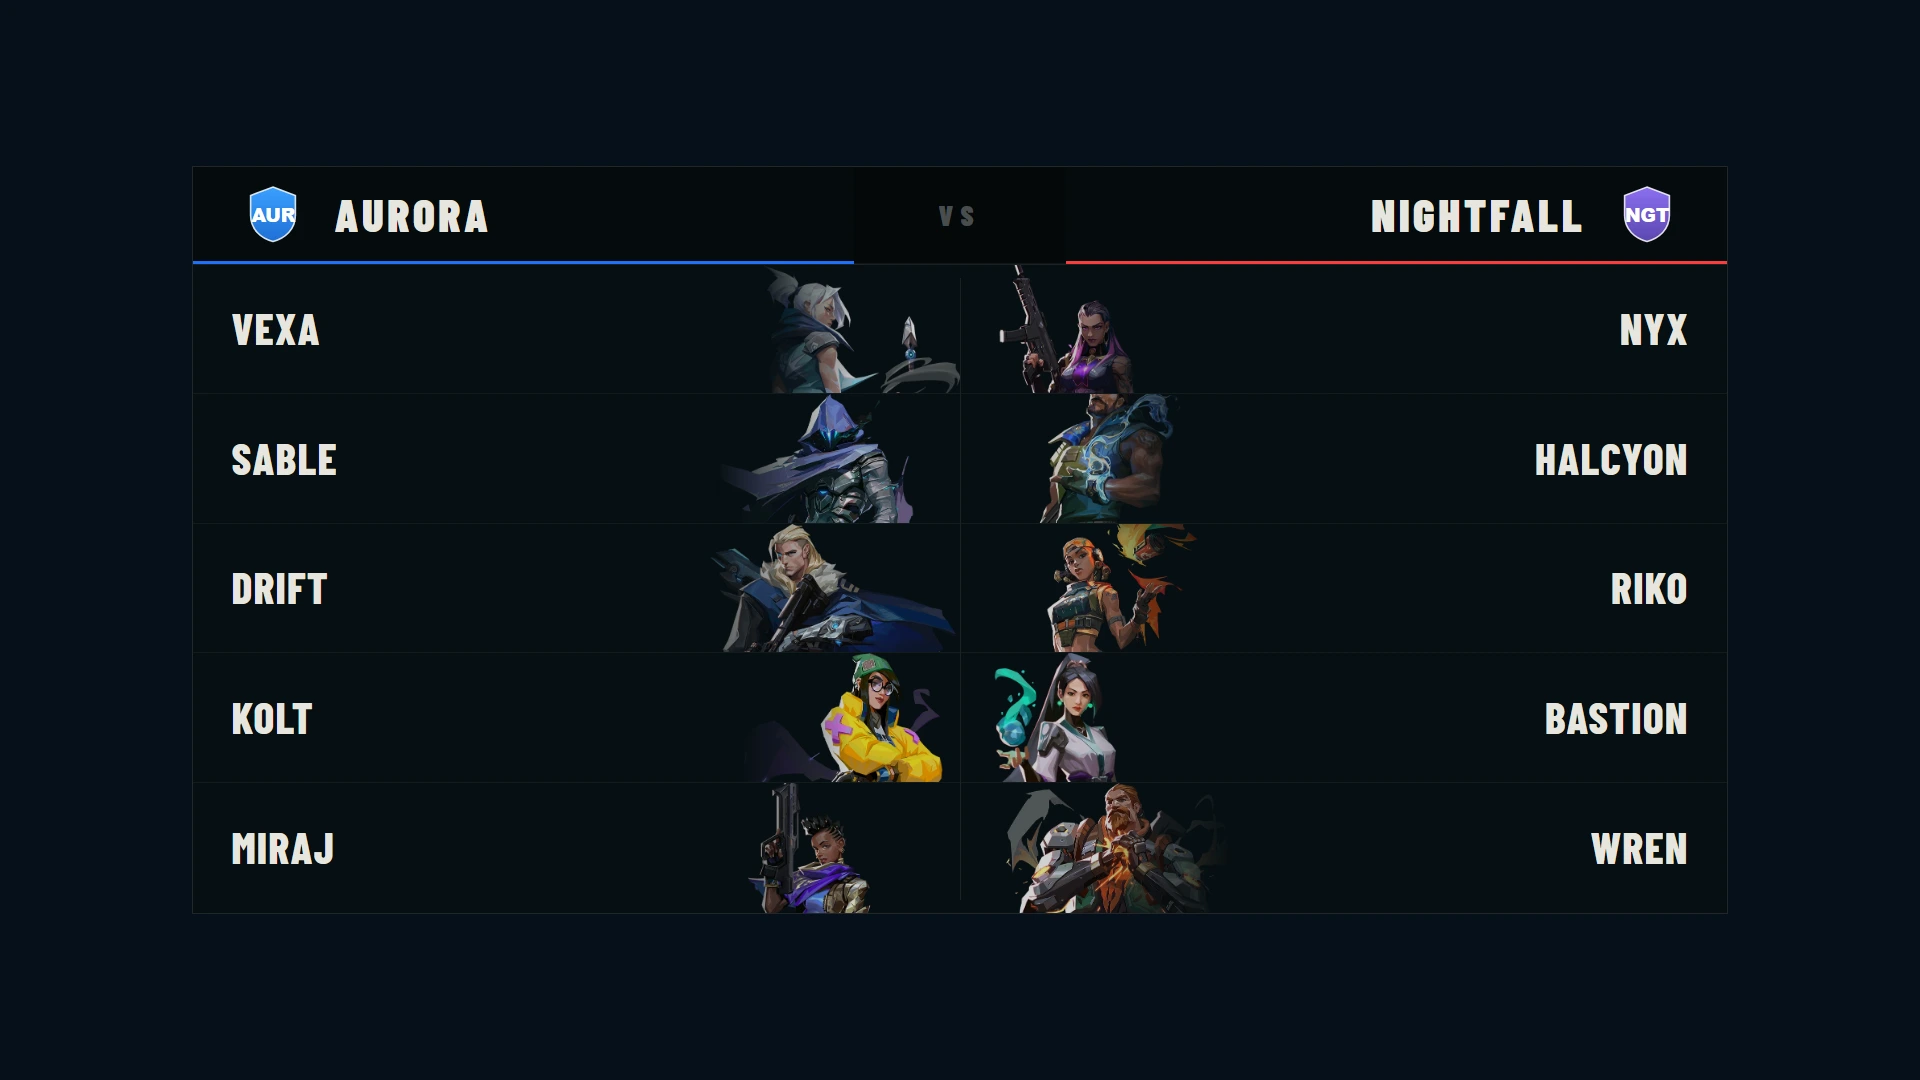
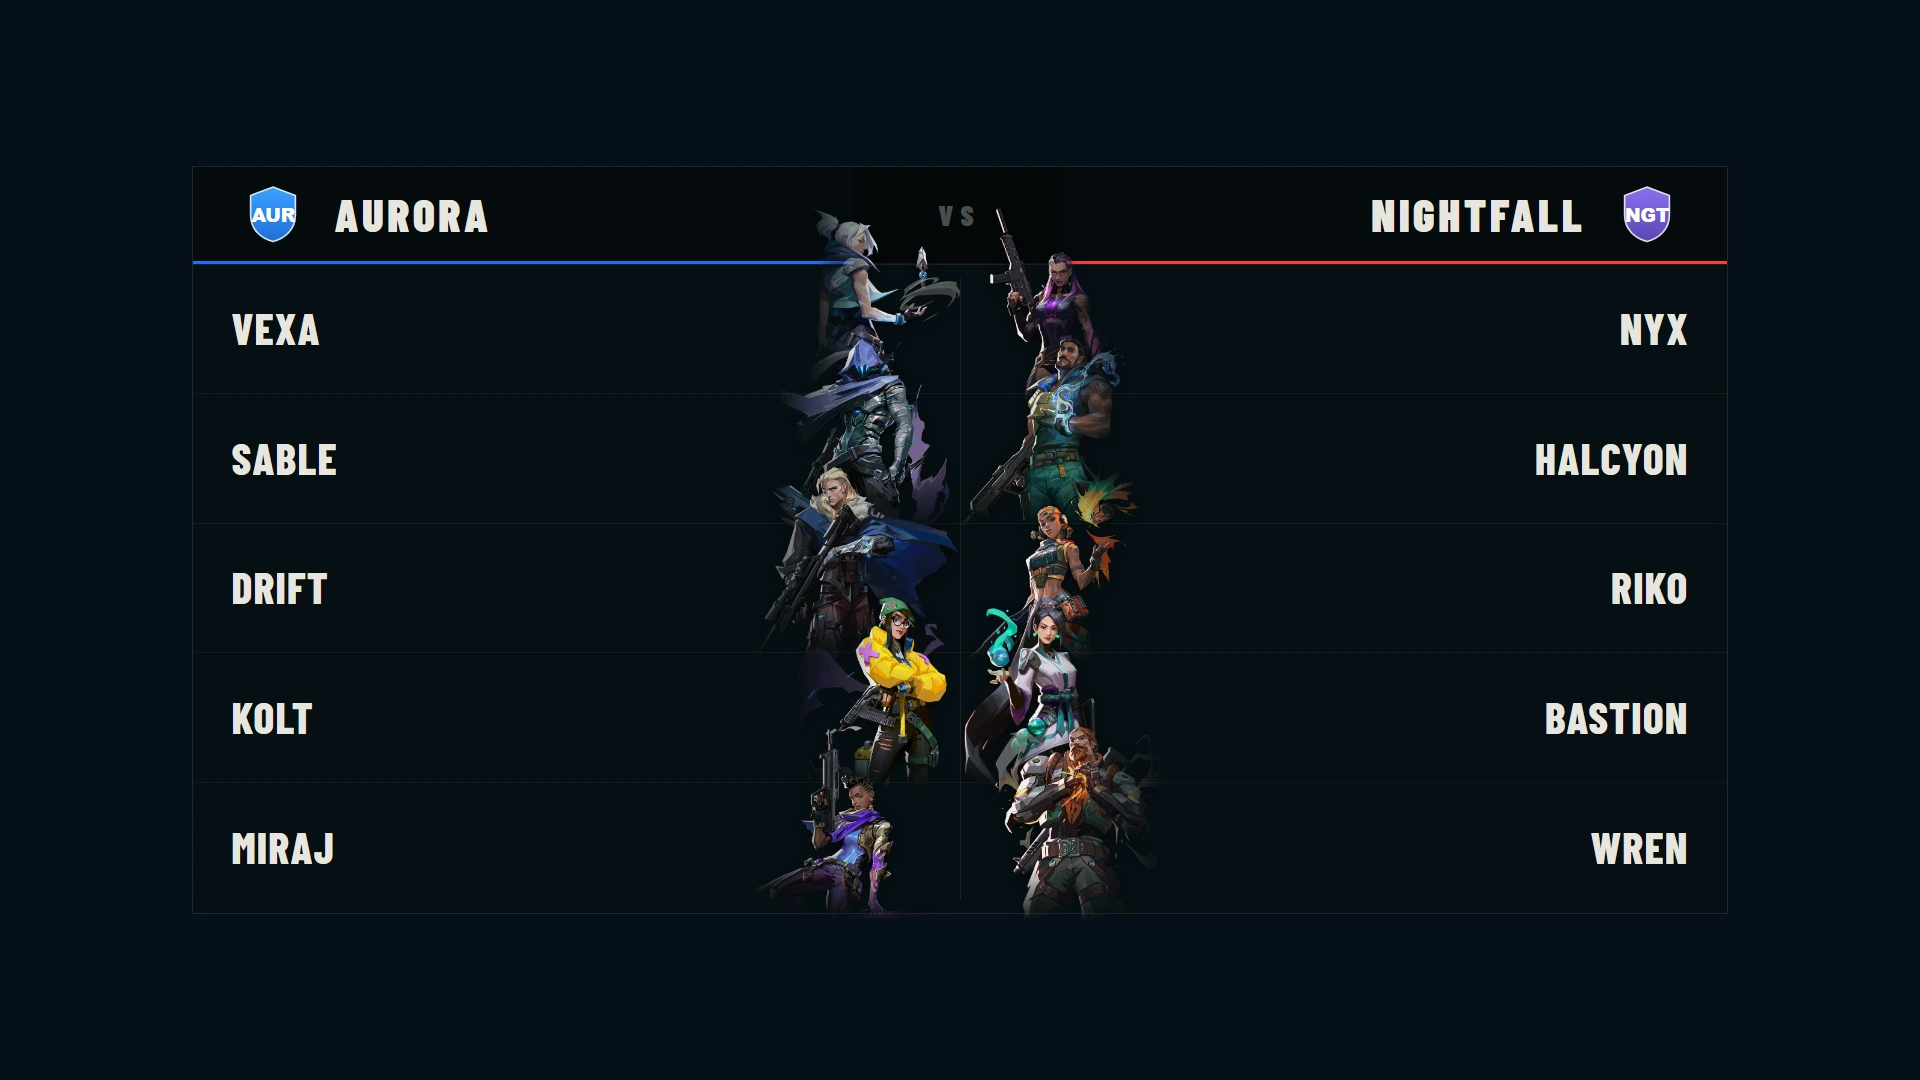
fix(valorant): agent heads never cut in Player Intro + centred COMP series score
Player Intro agent strips — the docs image pass exposed that agents' heads were
being flat-cut. Three stacked CSS defects, all the same file-order trap (the
game-specific rule declared BEFORE an equal-specificity base rule that sets the
clipping/anchoring, so the base silently won):
- .pi-champstrip base overflow:hidden beat .pi-agentstrip's overflow:visible
- .pi-champstrip .pi-champ-img top:0 beat the agent bottom-anchor (with
  top+height set, bottom is ignored → busts top-anchored, heads cut by the row)
- .pi-stk-player base overflow:hidden beat .pi-stk-player-agent (stack rows)
All three now use double selectors that out-specify the base. Busts are truly
bottom-anchored at 150% row height (200% pushed faces a full row above their
name), containers released in VALORANT mode (#pi-root.pi-val) so heads break
above rows / the header instead of clipping. AGENT_NUDGE dropped — it existed
to shove faces into the top-anchored window and is obsolete.

Win Screen COMP + auto series score: the score chips left-packed ~half a row
off centre (row stretches to the text column, chips at flex-start) and the
centre character's head painted over them — centred the chips and dropped the
comp row to 42vh when the score shows.

Docs images re-rendered and reviewed (panel + stack + win COMP): all heads
intact, score centred and clear.

Changed region(s): [[0.375, 0.1833, 0.625, 0.8556]]

diff --git a/public/graphics/player-intro/player-intro.css b/public/graphics/player-intro/player-intro.css
@@ -142,11 +142,20 @@ html, body { width: 100vw; height: 100vh; overflow: hidden; background: transpar
 .pi-agentstrip.pi-champstrip-panel { width: 74%; }
 .pi-agentstrip.pi-champstrip-stack { width: 70%; }
 .pi-agentstrip.pi-champstrip-bar   { width: 62%; }
-.pi-agentstrip { overflow: visible; z-index: 1; }
-.pi-agentstrip .pi-agent-portrait {
+/* Double class so this WINS over the base .pi-champstrip { overflow:hidden } defined later
+   in the file (same specificity would lose on order) — otherwise the strip flat-crops the
+   bust at the row's top edge and cuts agents' heads off. */
+.pi-champstrip.pi-agentstrip { overflow: visible; z-index: 1; }
+/* Triple selector: must OUT-SPECIFY the base .pi-champstrip .pi-champ-img rule (defined
+   later in the file), whose top:0 would otherwise win and top-anchor the bust — with
+   top+height set, bottom is ignored and the row window flat-cuts heads. */
+.pi-champstrip.pi-agentstrip .pi-agent-portrait {
   position: absolute;
+  top: auto;                    /* clear top:0 → bottom-anchored, breaking out above */
   bottom: -6%;                  /* sit just below the row baseline… */
-  height: 200%;                 /* …and stand tall, breaking out above the row */
+  height: 150%;                 /* …and stand tall enough that the FACE stays beside its own
+                                   player name while the head breaks into the row above —
+                                   200% pushed faces a full row up and broke the association */
   width: auto;                  /* tight bust → width tracks height */
   object-fit: contain;
   filter: saturate(1.05) brightness(0.94) drop-shadow(0 0.3vh 0.5vh rgba(0,0,0,0.5));
@@ -157,9 +166,18 @@ html, body { width: 100vw; height: 100vh; overflow: hidden; background: transpar
 .pi-agentstrip.pi-champstrip-right       .pi-agent-portrait { left: 0; }
 
 /* Agent rows: taller + overflow visible so busts can break out the top, all aligned flush
-   to the centre divider. */
-.pi-pnl-row-agent    { min-height: 12vh;  overflow: visible; }
-.pi-stk-player-agent { min-height: 15vh; overflow: visible; }
+   to the centre divider. Double selectors: the BASE row rules (.pi-pnl-row / .pi-stk-player,
+   defined later in this file) set overflow:hidden at equal single-class specificity — these
+   must out-specify them or the rows flat-cut the agents' heads at the row top. */
+.pi-pnl-row.pi-pnl-row-agent       { min-height: 12vh; overflow: visible; }
+.pi-stk-player.pi-stk-player-agent { min-height: 15vh; overflow: visible; }
+
+/* VALORANT (#pi-root.pi-val): the containers must ALSO stop clipping, or the FIRST row's
+   bust is beheaded at the panel-box / stack-half edge — agents may break above the box
+   (over the header band) so no heads are ever cut. Rows paint after the header in DOM
+   order, so the busts overlay it cleanly. */
+#pi-root.pi-val .pi-panel-box  { overflow: visible; }
+#pi-root.pi-val .pi-stack-half { overflow: visible; }
 
 /* ── Champion strip (top-3 most-played, blended splash crops) ─────────────────
    Shared across all three layouts. Each row reads name → divider:

diff --git a/public/graphics/player-intro/player-intro.js b/public/graphics/player-intro/player-intro.js
@@ -316,25 +316,19 @@ function agentImgUrl(name)  { var s = agentSlug(name); return s ? '/agents/bust/
 function agentIconUrl(name) { var s = agentSlug(name); return s ? '/agents/icons/' + s + '.png' : ''; }   // small headshot icon
 function agentPortraitUrl(name) { var s = agentSlug(name); return s ? '/agents/' + s + '.png' : ''; }     // full-body portrait (Agent Cards layout)
 
-// Some agents have big overhead elements in their portrait (a raised weapon, ability FX,
-// grenade) so their face sits low — nudge those up (% of the bust's own height) so more of
-// the character/face shows. Most agents need nothing. Slugs match the synced art.
-var AGENT_NUDGE = { raze: 15, clove: 9, neon: 11, harbor: 8, astra: 12, reyna: 9, skye: 9,
-  iso: 8, vyse: 8, brimstone: 7, waylay: 6, kayo: 5, phoenix: 4 };
-
 // Big agent portrait filling the row toward the centre divider — the VALORANT equivalent of
 // the champion splash strip (same H2H-card feel), fading toward the name so the handle stays
 // legible. One agent per player (no draft pool). Reuses the champ-strip container + sizing.
+// Busts are bottom-anchored to the row and free to break ABOVE it (strip + containers don't
+// clip in VALORANT mode) so heads are never cut — no per-agent framing nudges needed.
 function agentStripHtml(agentName, side, layout) {
   var url = agentImgUrl(agentName); if (!url) return '';
   var isRight = side === 'right';
   var mask = isRight
     ? 'linear-gradient(to right, #000 0%, #000 48%, transparent 94%)'
     : 'linear-gradient(to right, transparent 6%, #000 52%, #000 100%)';
-  var nudge = AGENT_NUDGE[agentSlug(agentName)] || 0;
-  var tf = nudge ? ';transform:translateY(-' + nudge + '%)' : '';
   var wrap = 'pi-champstrip pi-agentstrip pi-champstrip-' + (layout || 'panel') + (isRight ? ' pi-champstrip-right' : '');
-  return '<span class="' + wrap + '"><img class="pi-champ-img pi-agent-portrait" decoding="async" src="' + url + '" style="-webkit-mask-image:' + mask + ';mask-image:' + mask + tf + '"></span>';
+  return '<span class="' + wrap + '"><img class="pi-champ-img pi-agent-portrait" decoding="async" src="' + url + '" style="-webkit-mask-image:' + mask + ';mask-image:' + mask + '"></span>';
 }
 
 function buildPanelRowHtml(player, roleKey, side, showRank, showChamps, csLine) {
@@ -723,6 +717,10 @@ socket.on('state', function(state) {
   GfxSettings.applyTheme(document.documentElement, state);
   GfxSettings.applyAnimation(document.documentElement, state, 'playerIntro');
   GfxSettings.applyBackground(root, getEffectiveBgState(state));
+
+  // VALORANT flag on the root — releases the panel/stack container clipping so the tall
+  // agent busts can break above the box instead of having their heads cut off (CSS .pi-val).
+  if (root) root.classList.toggle('pi-val', piIsValorant(state));
 
   if (root) {
     var layout = pi.layout || 'panel';

diff --git a/public/graphics/win-screen/win.css b/public/graphics/win-screen/win.css
@@ -868,7 +868,13 @@ html, body { width: 100vw; height: 100vh; overflow: hidden; background: transpar
 .style-comp .ws-tag     { font-size: 2.2vh; letter-spacing: 0.5em; color: var(--win-color); }
 .style-comp .ws-name    { font-size: 8.2vh; line-height: 0.9; }
 .style-comp .ws-message { font-size: 2vh; letter-spacing: 0.3em; margin-top: 0.6vh; color: rgba(255,255,255,0.72); }
-.style-comp .ws-score-row { display: none !important; }
+/* COMP hides the score row by default, but the auto-series opt-in (#win-root.ws-series-on,
+   higher specificity) brings it back — when it does, centre the chips: the row stretches to
+   the text column's width, and without this the chips left-pack ~half a row off centre. */
+.style-comp .ws-score-row { display: none !important; justify-content: center; }
+/* …and drop the comp row so the centre character's head doesn't paint over the chips
+   (the row of characters normally starts right where the score chips end). */
+#win-root.ws-series-on.style-comp .ws-comp-row { top: 42vh; }
 
 .style-comp .ws-comp-row {
   display: flex; justify-content: center; align-items: flex-start;
